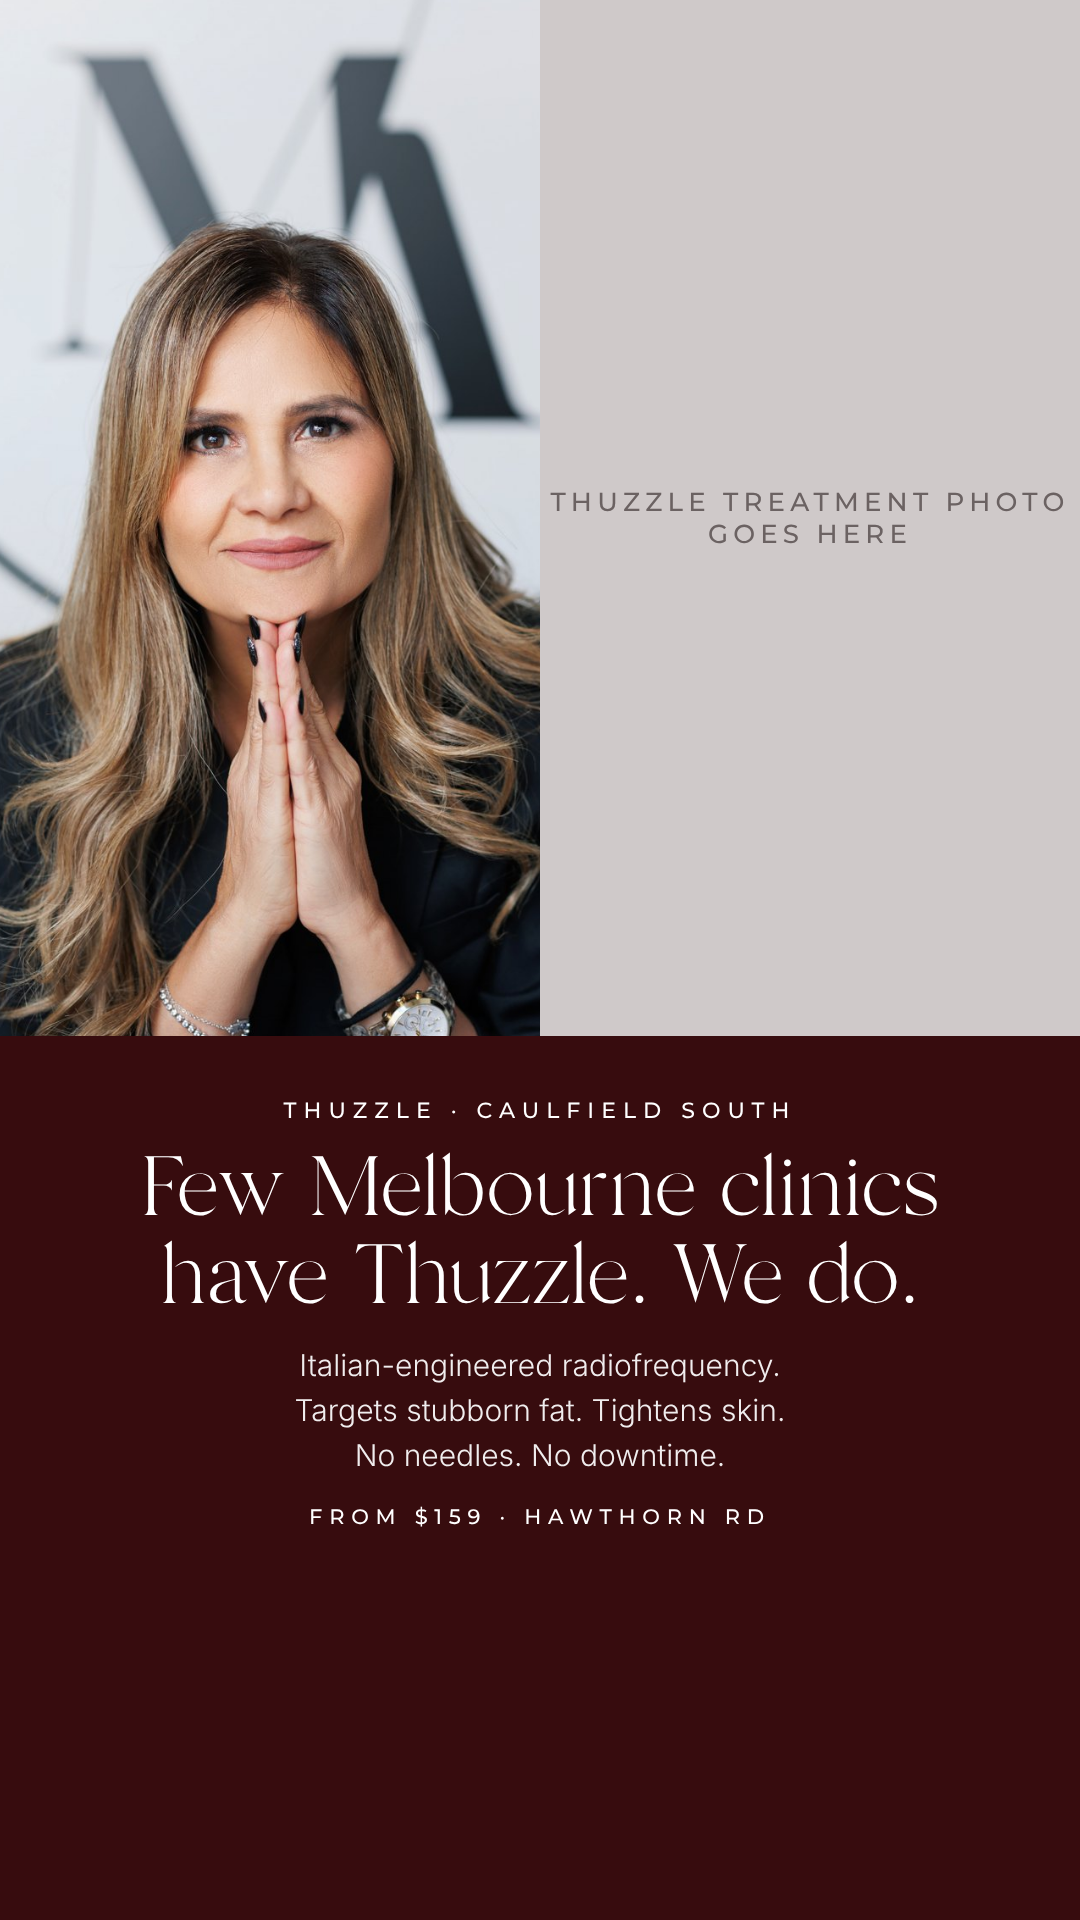
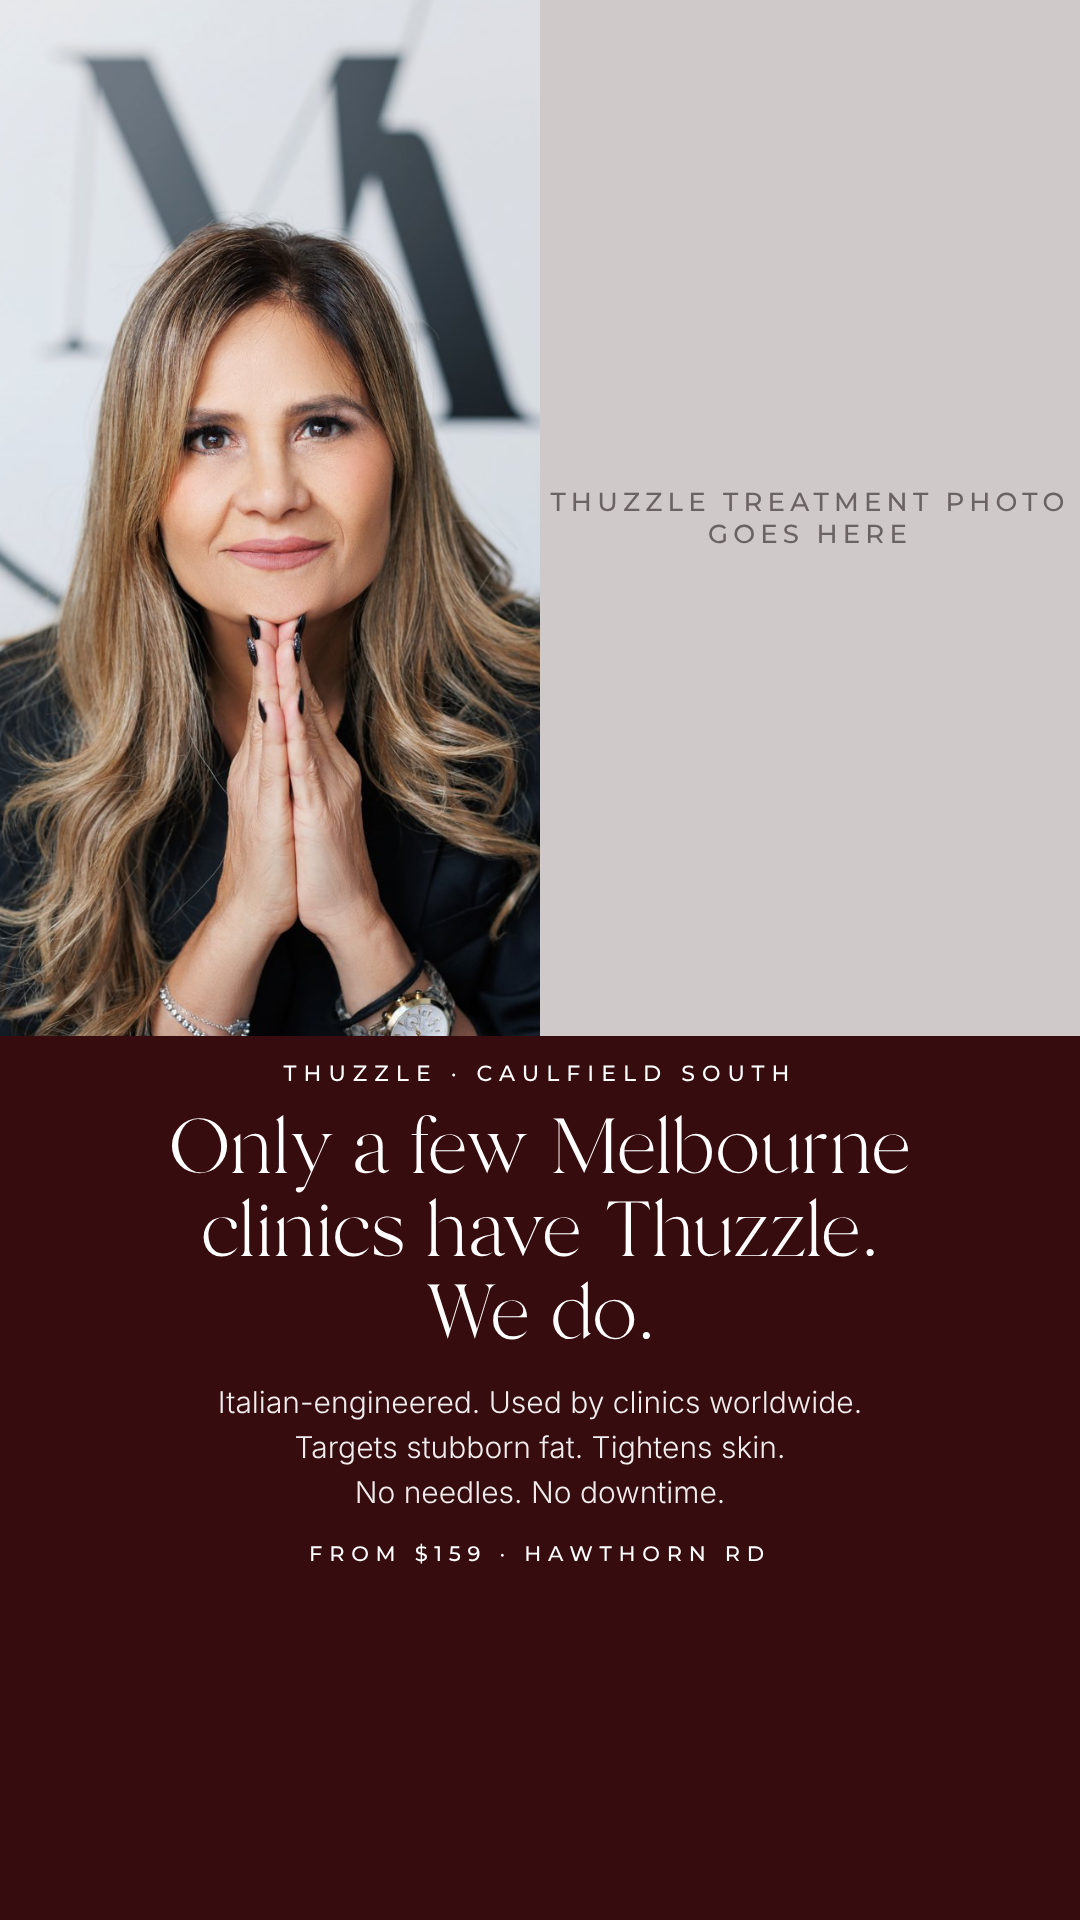
Thuzzle copy: 'Only a few Melbourne clinics', explainer carousel
Claude-Session: https://claude.ai/code/session_01FRXbSczGoVco3RLoUk7ePa

Changed region(s): [[0.1222, 0.5625, 0.8556, 0.8125]]

diff --git a/marketing/graphics/2026-11-christmas-thuzzle/ad1b-thuzzle-split-PREVIEW-story.html b/marketing/graphics/2026-11-christmas-thuzzle/ad1b-thuzzle-split-PREVIEW-story.html
@@ -2,14 +2,14 @@
         .ph{position:absolute;top:0;height:1036px}
         .ph-note{position:absolute;inset:0;display:flex;align-items:center;justify-content:center;text-align:center;font:500 26px Montserrat,sans-serif;letter-spacing:.2em;text-transform:uppercase;color:#6b6262}
         .bot{position:absolute;left:0;bottom:0;width:100%;height:884px;display:flex;flex-direction:column;align-items:center;justify-content:center;text-align:center;padding:0 80px 330px}
-        h1{font-size:84px;line-height:1.04;margin:20px 0 24px}
+        h1{font-size:78px;line-height:1.06;margin:20px 0 24px}
         .sub{font-size:30px;line-height:1.5;opacity:.93;max-width:880px}
         .from{margin-top:26px;font-size:21px}
         </style></head><body><div class="ph" style="left:0;width:540px;background-image:url(../../../brand/photos/website/mira-portrait-logo.jpg);background-repeat:no-repeat;background-size:1016px 1525px;background-position:-240px -220px;"></div>
             <div class="ph" style="left:540px;width:540px;background:#cfc9c9"><div class="ph-note">Thuzzle treatment photo<br>goes here</div></div>
         <div class="bot ox">
           <div class="label">Thuzzle · Caulfield South</div>
-          <h1 class="serif">Few Melbourne clinics<br>have Thuzzle. We do.</h1>
-          <div class="sub">Italian-engineered radiofrequency.<br>Targets stubborn fat. Tightens skin.<br>No needles. No downtime.</div>
+          <h1 class="serif">Only a few Melbourne<br>clinics have Thuzzle.<br>We do.</h1>
+          <div class="sub">Italian-engineered. Used by clinics worldwide.<br>Targets stubborn fat. Tightens skin.<br>No needles. No downtime.</div>
           <div class="label from">From $159 · Hawthorn Rd</div>
         </div></body></html>

diff --git a/marketing/graphics/2026-11-christmas-thuzzle/ad1b-thuzzle-split-PREVIEW-feed.html b/marketing/graphics/2026-11-christmas-thuzzle/ad1b-thuzzle-split-PREVIEW-feed.html
@@ -2,14 +2,14 @@
         .ph{position:absolute;top:0;height:742px}
         .ph-note{position:absolute;inset:0;display:flex;align-items:center;justify-content:center;text-align:center;font:500 26px Montserrat,sans-serif;letter-spacing:.2em;text-transform:uppercase;color:#6b6262}
         .bot{position:absolute;left:0;bottom:0;width:100%;height:608px;display:flex;flex-direction:column;align-items:center;justify-content:center;text-align:center;padding:0 80px 40px}
-        h1{font-size:78px;line-height:1.04;margin:20px 0 24px}
+        h1{font-size:72px;line-height:1.06;margin:20px 0 24px}
         .sub{font-size:28px;line-height:1.5;opacity:.93;max-width:880px}
         .from{margin-top:26px;font-size:21px}
         </style></head><body><div class="ph" style="left:0;width:540px;background-image:url(../../../brand/photos/website/mira-portrait-logo.jpg);background-repeat:no-repeat;background-size:728px 1092px;background-position:-95px -158px;"></div>
             <div class="ph" style="left:540px;width:540px;background:#cfc9c9"><div class="ph-note">Thuzzle treatment photo<br>goes here</div></div>
         <div class="bot ox">
           <div class="label">Thuzzle · Caulfield South</div>
-          <h1 class="serif">Few Melbourne clinics<br>have Thuzzle. We do.</h1>
-          <div class="sub">Italian-engineered radiofrequency.<br>Targets stubborn fat. Tightens skin.<br>No needles. No downtime.</div>
+          <h1 class="serif">Only a few Melbourne clinics<br>have Thuzzle. We do.</h1>
+          <div class="sub">Italian-engineered. Used by clinics worldwide.<br>Targets stubborn fat. Tightens skin.<br>No needles. No downtime.</div>
           <div class="label from">From $159 · Hawthorn Rd</div>
         </div></body></html>

diff --git a/marketing/graphics/2026-11-christmas-thuzzle/ad1-thuzzle-mira-story.html b/marketing/graphics/2026-11-christmas-thuzzle/ad1-thuzzle-mira-story.html
@@ -2,13 +2,13 @@
         .ph{position:absolute;top:0;height:1036px}
         .ph-note{position:absolute;inset:0;display:flex;align-items:center;justify-content:center;text-align:center;font:500 26px Montserrat,sans-serif;letter-spacing:.2em;text-transform:uppercase;color:#6b6262}
         .bot{position:absolute;left:0;bottom:0;width:100%;height:884px;display:flex;flex-direction:column;align-items:center;justify-content:center;text-align:center;padding:0 80px 330px}
-        h1{font-size:84px;line-height:1.04;margin:20px 0 24px}
+        h1{font-size:78px;line-height:1.06;margin:20px 0 24px}
         .sub{font-size:30px;line-height:1.5;opacity:.93;max-width:880px}
         .from{margin-top:26px;font-size:21px}
         </style></head><body><div class="ph" style="left:0;width:1080px;background-image:url(../../../brand/photos/website/mira-portrait-logo.jpg);background-repeat:no-repeat;background-size:1080px 1620px;background-position:0px -263px;"></div>
         <div class="bot ox">
           <div class="label">Thuzzle · Caulfield South</div>
-          <h1 class="serif">Few Melbourne clinics<br>have Thuzzle. We do.</h1>
-          <div class="sub">Italian-engineered radiofrequency.<br>Targets stubborn fat. Tightens skin.<br>No needles. No downtime.</div>
+          <h1 class="serif">Only a few Melbourne<br>clinics have Thuzzle.<br>We do.</h1>
+          <div class="sub">Italian-engineered. Used by clinics worldwide.<br>Targets stubborn fat. Tightens skin.<br>No needles. No downtime.</div>
           <div class="label from">From $159 · Hawthorn Rd</div>
         </div></body></html>

diff --git a/marketing/graphics/2026-11-christmas-thuzzle/ad1-thuzzle-mira-feed.html b/marketing/graphics/2026-11-christmas-thuzzle/ad1-thuzzle-mira-feed.html
@@ -2,13 +2,13 @@
         .ph{position:absolute;top:0;height:742px}
         .ph-note{position:absolute;inset:0;display:flex;align-items:center;justify-content:center;text-align:center;font:500 26px Montserrat,sans-serif;letter-spacing:.2em;text-transform:uppercase;color:#6b6262}
         .bot{position:absolute;left:0;bottom:0;width:100%;height:608px;display:flex;flex-direction:column;align-items:center;justify-content:center;text-align:center;padding:0 80px 40px}
-        h1{font-size:78px;line-height:1.04;margin:20px 0 24px}
+        h1{font-size:72px;line-height:1.06;margin:20px 0 24px}
         .sub{font-size:28px;line-height:1.5;opacity:.93;max-width:880px}
         .from{margin-top:26px;font-size:21px}
         </style></head><body><div class="ph" style="left:0;width:1080px;background-image:url(../../../brand/photos/website/mira-portrait-logo.jpg);background-repeat:no-repeat;background-size:1080px 1620px;background-position:0px -395px;"></div>
         <div class="bot ox">
           <div class="label">Thuzzle · Caulfield South</div>
-          <h1 class="serif">Few Melbourne clinics<br>have Thuzzle. We do.</h1>
-          <div class="sub">Italian-engineered radiofrequency.<br>Targets stubborn fat. Tightens skin.<br>No needles. No downtime.</div>
+          <h1 class="serif">Only a few Melbourne clinics<br>have Thuzzle. We do.</h1>
+          <div class="sub">Italian-engineered. Used by clinics worldwide.<br>Targets stubborn fat. Tightens skin.<br>No needles. No downtime.</div>
           <div class="label from">From $159 · Hawthorn Rd</div>
         </div></body></html>

diff --git a/marketing/graphics/2026-11-christmas-thuzzle/post-carousel-thuzzle-01.html b/marketing/graphics/2026-11-christmas-thuzzle/post-carousel-thuzzle-01.html
@@ -1,6 +1,6 @@
 <!doctype html><html><head><meta charset="utf-8"><link rel="stylesheet" href="../../../brand/templates/ma.css"><style>
     .top{position:absolute;left:0;top:0;width:1080px;height:891px;background-image:url(../../../brand/photos/website/mira-portrait-logo.jpg);background-repeat:no-repeat;background-size:1080px 1620px;background-position:0px -328px;}
     .bot{position:absolute;left:0;right:0;bottom:0;height:34%;display:flex;flex-direction:column;align-items:center;justify-content:center;text-align:center}
-    h1{font-size:112px;line-height:1;margin-top:18px}
-    .swipe{margin-top:26px;font-size:24px;opacity:.8}</style></head><body><div class="top photo"></div><div class="bot ox"><div class="label">Our most asked question</div>
-    <h1 class="serif">What is Thuzzle?</h1><div class="swipe">Mira explains →</div></div></body></html>
+    h1{font-size:74px;line-height:1.08;margin-top:18px}
+    .swipe{margin-top:26px;font-size:24px;opacity:.8}</style></head><body><div class="top photo"></div><div class="bot ox"><div class="label">Thuzzle at MA Beauty</div>
+    <h1 class="serif">Only a few Melbourne clinics<br>have Thuzzle. We do.</h1><div class="swipe">What is Thuzzle? →</div></div></body></html>

diff --git a/marketing/graphics/2026-11-christmas-thuzzle/post-carousel-thuzzle-04.html b/marketing/graphics/2026-11-christmas-thuzzle/post-carousel-thuzzle-04.html
@@ -5,5 +5,5 @@
         .b li{list-style:none;padding:16px 0;border-bottom:1px solid rgba(255,255,255,.25)}
         .n{position:absolute;bottom:70px;right:90px;font-family:Montserrat,sans-serif;font-size:20px;letter-spacing:.3em;opacity:.6}
         .logo{position:absolute;bottom:58px;left:100px;width:84px;opacity:.9}
-        </style></head><body><div class="label">What to expect</div><h2 class="serif">In and out in your lunch break</h2><div class="b"><ul><li>15–30 minutes per body area</li><li>No downtime, so straight back to your day</li><li>A course of treatments gives the best results</li><li>Results vary from person to person</li></ul></div>
+        </style></head><body><div class="label">Where and how long</div><h2 class="serif">In and out in your lunch break</h2><div class="b"><ul><li>Tummy, love handles, back, arms</li><li>Thighs, knees, buttocks, double chin</li><li>15–30 minutes per area</li><li>A course gives the best results. Results vary</li></ul></div>
         <img class="logo" src="../../../brand/logo-white.png"><div class="n">4 / 5</div></body></html>

diff --git a/marketing/graphics/2026-11-christmas-thuzzle/post-carousel-thuzzle-02.html b/marketing/graphics/2026-11-christmas-thuzzle/post-carousel-thuzzle-02.html
@@ -5,5 +5,5 @@
         .b li{list-style:none;padding:16px 0;border-bottom:1px solid rgba(255,255,255,.25)}
         .n{position:absolute;bottom:70px;right:90px;font-family:Montserrat,sans-serif;font-size:20px;letter-spacing:.3em;opacity:.6}
         .logo{position:absolute;bottom:58px;left:100px;width:84px;opacity:.9}
-        </style></head><body><div class="label">How it works</div><h2 class="serif">Radiofrequency, at more than one depth</h2><div class="b">Thuzzle warms the targeted fat layer and tightens the skin above it, in the same treatment. It also supports lymphatic drainage.</div>
+        </style></head><body><div class="label">The technology</div><h2 class="serif">What is Thuzzle?</h2><div class="b">Italian-engineered radiofrequency, used by clinics around the world.<br><br>It gently heats the targeted fat layer and tightens the skin above it, in a single treatment. It also supports lymphatic drainage.</div>
         <img class="logo" src="../../../brand/logo-white.png"><div class="n">2 / 5</div></body></html>

diff --git a/marketing/graphics/2026-11-christmas-thuzzle/post-carousel-thuzzle-03.html b/marketing/graphics/2026-11-christmas-thuzzle/post-carousel-thuzzle-03.html
@@ -5,5 +5,5 @@
         .b li{list-style:none;padding:16px 0;border-bottom:1px solid rgba(55,12,14,.18)}
         .n{position:absolute;bottom:70px;right:90px;font-family:Montserrat,sans-serif;font-size:20px;letter-spacing:.3em;opacity:.6}
         .logo{position:absolute;bottom:58px;left:100px;width:84px;opacity:.9}
-        </style></head><body><div class="label">Where we use it</div><h2 class="serif">Body and face</h2><div class="b"><ul><li>Tummy, love handles, back</li><li>Thighs, knees, buttocks, arms</li><li>Double chin</li><li>Face, neck and décolletage</li></ul></div>
+        </style></head><body><div class="label">Why clients choose it</div><h2 class="serif">A non-surgical alternative</h2><div class="b"><ul><li>No surgery and no anaesthetic</li><li>No needles</li><li>No downtime, straight back to your day</li><li>Every treatment starts with a consult with Mira</li></ul></div>
         <img class="logo" src="../../../brand/logo-black.png"><div class="n">3 / 5</div></body></html>

diff --git a/marketing/graphics/2026-11-christmas-thuzzle/build.py b/marketing/graphics/2026-11-christmas-thuzzle/build.py
@@ -41,15 +41,15 @@ def ad_thuzzle(split):
         .ph{{position:absolute;top:0;height:{ph}px}}
         .ph-note{{position:absolute;inset:0;display:flex;align-items:center;justify-content:center;text-align:center;font:500 26px Montserrat,sans-serif;letter-spacing:.2em;text-transform:uppercase;color:#6b6262}}
         .bot{{position:absolute;left:0;bottom:0;width:100%;height:{h-ph}px;display:flex;flex-direction:column;align-items:center;justify-content:center;text-align:center;padding:0 80px {pad_b}px}}
-        h1{{font-size:{84 if tall else 78}px;line-height:1.04;margin:20px 0 24px}}
+        h1{{font-size:{78 if tall else 72}px;line-height:1.06;margin:20px 0 24px}}
         .sub{{font-size:{30 if tall else 28}px;line-height:1.5;opacity:.93;max-width:880px}}
         .from{{margin-top:26px;font-size:21px}}
         """
         body = f"""{photos}
         <div class="bot ox">
           <div class="label">Thuzzle · Caulfield South</div>
-          <h1 class="serif">Few Melbourne clinics<br>have Thuzzle. We do.</h1>
-          <div class="sub">Italian-engineered radiofrequency.<br>Targets stubborn fat. Tightens skin.<br>No needles. No downtime.</div>
+          <h1 class="serif">{"Only a few Melbourne<br>clinics have Thuzzle.<br>We do." if tall else "Only a few Melbourne clinics<br>have Thuzzle. We do."}</h1>
+          <div class="sub">Italian-engineered. Used by clinics worldwide.<br>Targets stubborn fat. Tightens skin.<br>No needles. No downtime.</div>
           <div class="label from">From $159 · Hawthorn Rd</div>
         </div>"""
         return css, body
@@ -127,10 +127,10 @@ def car1(w, h):
     css = f"""
     .top{{position:absolute;left:0;top:0;width:{w}px;height:{int(h*0.66)}px;{bg('mira-portrait-logo.jpg', w, int(h*0.66), 0.45)}}}
     .bot{{position:absolute;left:0;right:0;bottom:0;height:34%;display:flex;flex-direction:column;align-items:center;justify-content:center;text-align:center}}
-    h1{{font-size:112px;line-height:1;margin-top:18px}}
+    h1{{font-size:74px;line-height:1.08;margin-top:18px}}
     .swipe{{margin-top:26px;font-size:24px;opacity:.8}}"""
-    body = """<div class="top photo"></div><div class="bot ox"><div class="label">Our most asked question</div>
-    <h1 class="serif">What is Thuzzle?</h1><div class="swipe">Mira explains →</div></div>"""
+    body = """<div class="top photo"></div><div class="bot ox"><div class="label">Thuzzle at MA Beauty</div>
+    <h1 class="serif">Only a few Melbourne clinics<br>have Thuzzle. We do.</h1><div class="swipe">What is Thuzzle? →</div></div>"""
     return css, body
 
 def text_slide(label, title, html_body, n, bg="ox"):
@@ -171,12 +171,12 @@ designs = [
     ("ad3-review-rachael-story", *STORY, review("I place a lot of trust in Mira’s expertise and advice, and am getting great results.", "Rachael K.", "Fresha", "", 66)),
     ("ad4-gift-cards-feed", *FEED, ad_gift), ("ad4-gift-cards-story", *STORY, ad_gift),
     ("post-carousel-thuzzle-01", *FEED, car1),
-    ("post-carousel-thuzzle-02", *FEED, text_slide("How it works", "Radiofrequency, at more than one depth",
-        "Thuzzle warms the targeted fat layer and tightens the skin above it, in the same treatment. It also supports lymphatic drainage.", 2)),
-    ("post-carousel-thuzzle-03", *FEED, text_slide("Where we use it", "Body and face",
-        "<ul><li>Tummy, love handles, back</li><li>Thighs, knees, buttocks, arms</li><li>Double chin</li><li>Face, neck and décolletage</li></ul>", 3, "grey")),
-    ("post-carousel-thuzzle-04", *FEED, text_slide("What to expect", "In and out in your lunch break",
-        "<ul><li>15–30 minutes per body area</li><li>No downtime, so straight back to your day</li><li>A course of treatments gives the best results</li><li>Results vary from person to person</li></ul>", 4)),
+    ("post-carousel-thuzzle-02", *FEED, text_slide("The technology", "What is Thuzzle?",
+        "Italian-engineered radiofrequency, used by clinics around the world.<br><br>It gently heats the targeted fat layer and tightens the skin above it, in a single treatment. It also supports lymphatic drainage.", 2)),
+    ("post-carousel-thuzzle-03", *FEED, text_slide("Why clients choose it", "A non-surgical alternative",
+        "<ul><li>No surgery and no anaesthetic</li><li>No needles</li><li>No downtime, straight back to your day</li><li>Every treatment starts with a consult with Mira</li></ul>", 3, "grey")),
+    ("post-carousel-thuzzle-04", *FEED, text_slide("Where and how long", "In and out in your lunch break",
+        "<ul><li>Tummy, love handles, back, arms</li><li>Thighs, knees, buttocks, double chin</li><li>15–30 minutes per area</li><li>A course gives the best results. Results vary</li></ul>", 4)),
     ("post-carousel-thuzzle-05", *FEED, text_slide("Start here", "Book a body consult with Mira",
         "Mira will look at your goals and tell you honestly if Thuzzle is right for you.<br><br>$22 for 30 minutes, taken off your treatment.<br>Tummy $279 · Love handles $299 · Double chin $159", 5, "grey")),
     ("post-review-eveline", *FEED, review("Mira is amazing, very passionate and professional. Great personalised skin treatment!", "Eveline T.", "Fresha", "Thuzzle Full Face Lift &amp; Tighten", 70)),

diff --git a/marketing/campaigns/2026-12-christmas-thuzzle.md b/marketing/campaigns/2026-12-christmas-thuzzle.md
@@ -78,9 +78,9 @@ Then **pin it to the top of your profile**. It explains your USP to every new vi
 
 **Caption**
 ```
-Thuzzle is the treatment I get asked about most, and few Melbourne clinics have it.
+Only a few clinics in Melbourne have Thuzzle, and it's the treatment I get asked about most.
 
-It uses radiofrequency at more than one depth, so it can work on stubborn areas like the tummy, love handles and double chin, while tightening the skin above. 15 to 30 minutes per area, and you're straight back to your day.
+It's Italian-engineered radiofrequency, used by clinics around the world. It gently heats stubborn fat in areas like the tummy, love handles and double chin, and tightens the skin above it. No surgery, no needles, no downtime. 15 to 30 minutes per area, and you're straight back to your day.
 
 Not sure if it's right for you? Book a body consult and I'll give you an honest answer. The $22 comes off your treatment.
 
@@ -88,7 +88,7 @@ Mira x
 Book via the link in bio, or DM me "THUZZLE".
 ```
 **Hashtags (paste at the end of the caption):** `#thuzzle #bodycontouring #caulfieldsouth #melbournebeauty #skintightening`
-**Alt text:** `Mira from MA Beauty with text: What is Thuzzle? Slides explain how Thuzzle works, treatment areas, what to expect and prices.`
+**Alt text:** `Mira from MA Beauty with text: Only a few Melbourne clinics have Thuzzle. We do. Slides explain what Thuzzle is, why it's a non-surgical alternative, treatment areas and prices.`
 
 **Google Business Profile (same evening)**
 1. Search **MA Beauty** in Google (logged in) or open the Google Maps app → **You** → your business.
@@ -269,7 +269,7 @@ Gift cards are a quick purchase, so that campaign sends people straight to the F
 
 ### Ads in A1 (create 2 ads, then Meta shows the better one more)
 
-**Ad A1-1: Mira "Few Melbourne clinics have Thuzzle. We do."**
+**Ad A1-1: Mira "Only a few Melbourne clinics have Thuzzle. We do."**
 (When you have a real Thuzzle treatment photo, swap in the split-screen version
 `ad1b-thuzzle-split-PREVIEW-*`, with Mira on one side and Thuzzle in action on the other. Send me the
 photo and I'll finish it. Don't run the PREVIEW files as they are.)
@@ -279,9 +279,9 @@ photo and I'll finish it. Don't run the PREVIEW files as they are.)
   swap in `ad1-thuzzle-mira-story.png`
 - **Primary text (main):**
   ```
-  Few Melbourne clinics have Thuzzle. We do.
+  Only a few Melbourne clinics have Thuzzle. We do.
 
-  Italian-engineered radiofrequency that targets stubborn fat and tightens skin. No needles. No downtime. 15–30 minutes per area, from $159.
+  Italian-engineered radiofrequency, used by clinics around the world. Targets stubborn fat and tightens skin. No needles. No downtime. 15–30 minutes per area, from $159.
 
   Tummy, love handles, double chin, thighs, arms. Tap "Send message" and ask Mira anything.
   ```

diff --git a/knowledge/claims.md b/knowledge/claims.md
@@ -18,7 +18,9 @@ and **Meta/TikTok ad policies**.
 | Before/after photos in ads | Meta/TikTok policy (organic only, real, consented) |
 
 ## ✅ Snappy, compliant alternatives
-- "Few Melbourne clinics have Thuzzle. We do."
+- "Only a few Melbourne clinics have Thuzzle. We do."
+- "Used by clinics around the world" (instead of "world-renowned", which is vaguer and harder to back up)
+- "A non-surgical alternative: no surgery, no anaesthetic, no needles, no downtime" (instead of "safer alternative")
 - "Thuzzle is still rare in Melbourne."
 - "Italian-engineered radiofrequency."
 - "Targets stubborn fat. Tightens skin."
